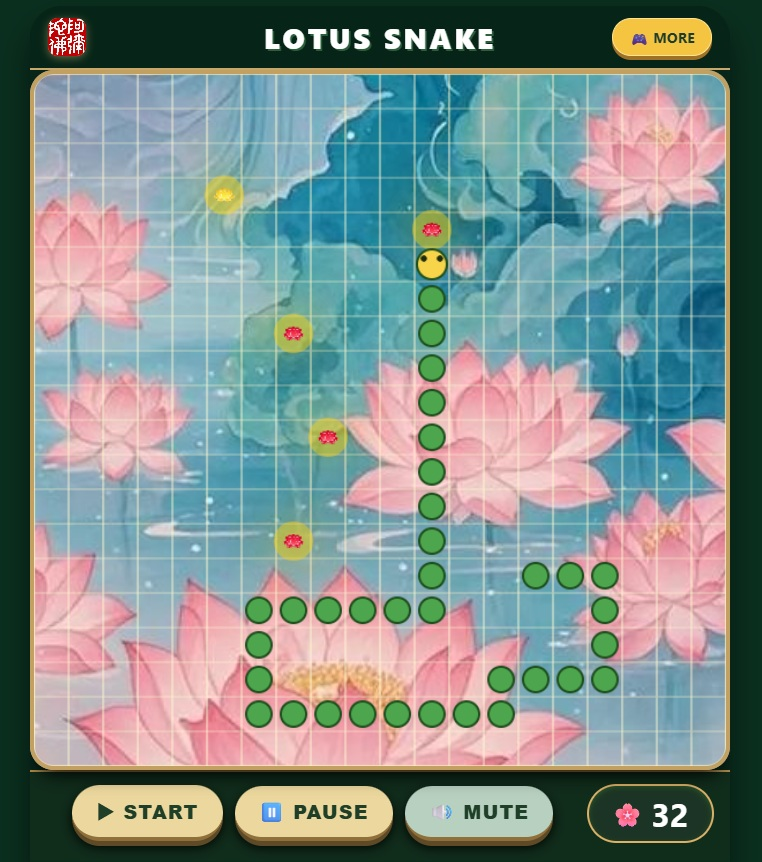
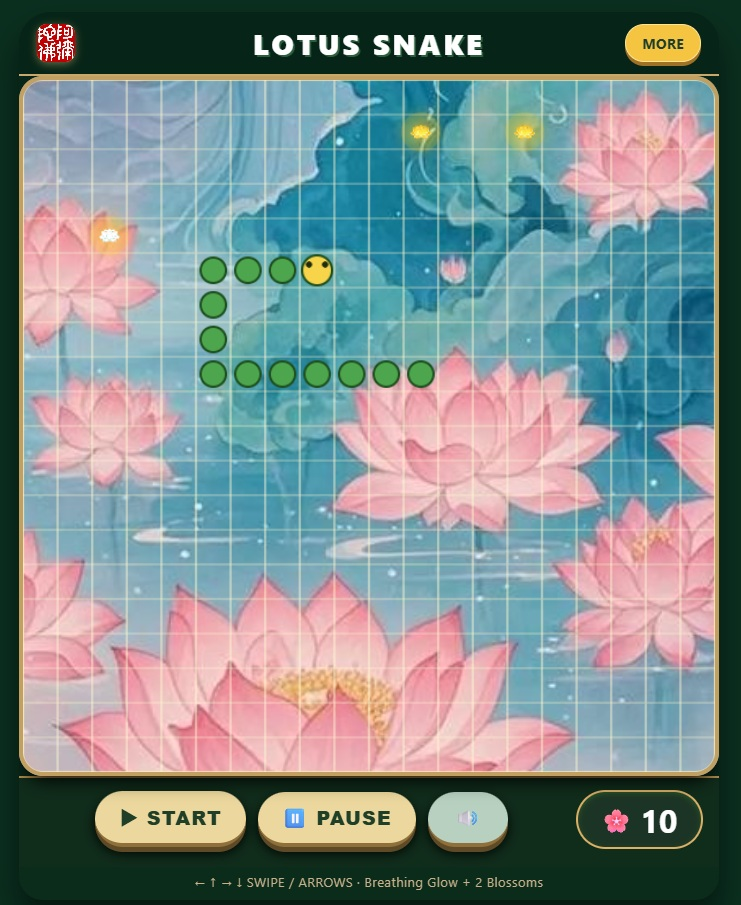
update lotus snake

diff --git a/lotus-snake/index.html b/lotus-snake/index.html
@@ -3,7 +3,7 @@
 <head>
     <meta charset="UTF-8">
     <meta name="viewport" content="width=device-width, initial-scale=1.0, maximum-scale=1.0, user-scalable=no">
-    <title>Lotus Snake · Breathing Glow + 2 Blossoms</title>
+    <title>Lotus Snake</title>
     <style>
         * {
             box-sizing: border-box;
@@ -341,7 +341,7 @@
             </div>
         </div>
         <div class="footer-note">
-            ← ↑ → ↓  SWIPE / ARROWS · Breathing Glow + 2 Blossoms
+            ← ↑ → ↓  SWIPE / ARROWS
         </div>
     </div>
 
@@ -750,6 +750,7 @@
             }
 
             function resetGame() {
+		clearAllPetals();
                 if (gameInterval) { clearInterval(gameInterval); gameInterval = null; }
                 snake = [{x:10,y:10},{x:9,y:10},{x:8,y:10}];
                 direction = 'RIGHT';
